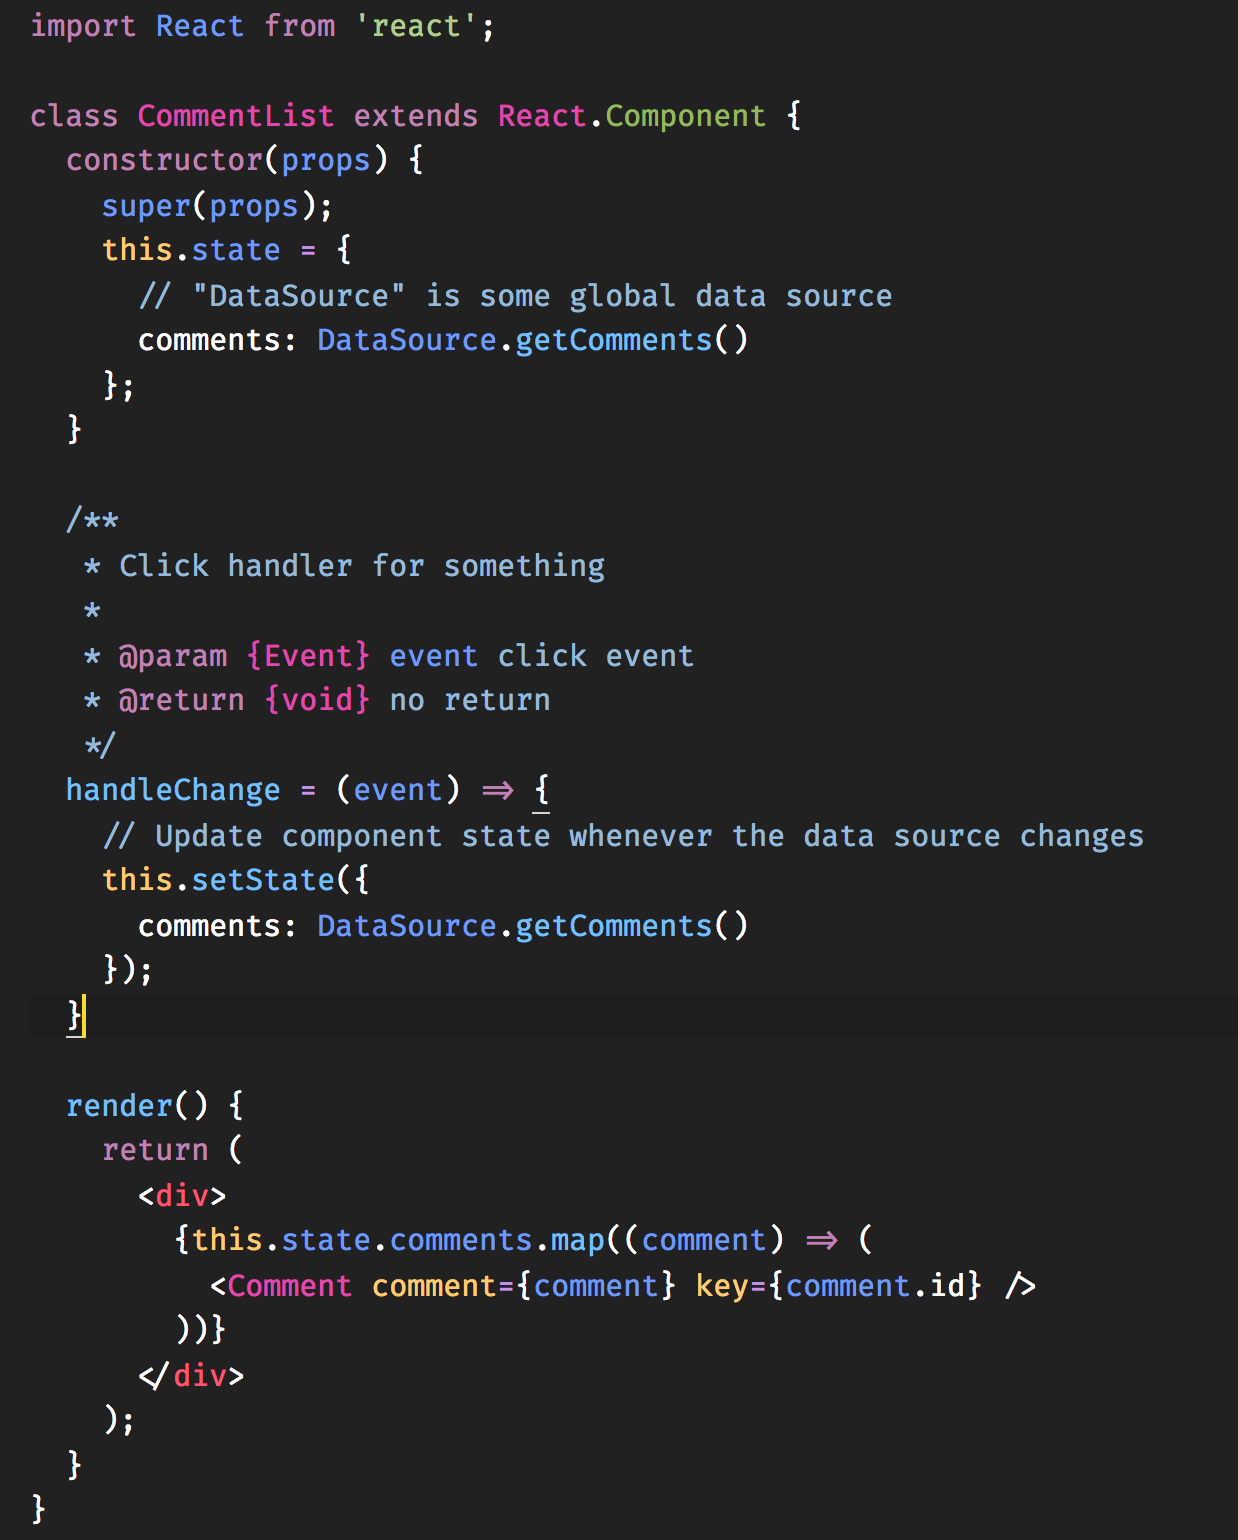
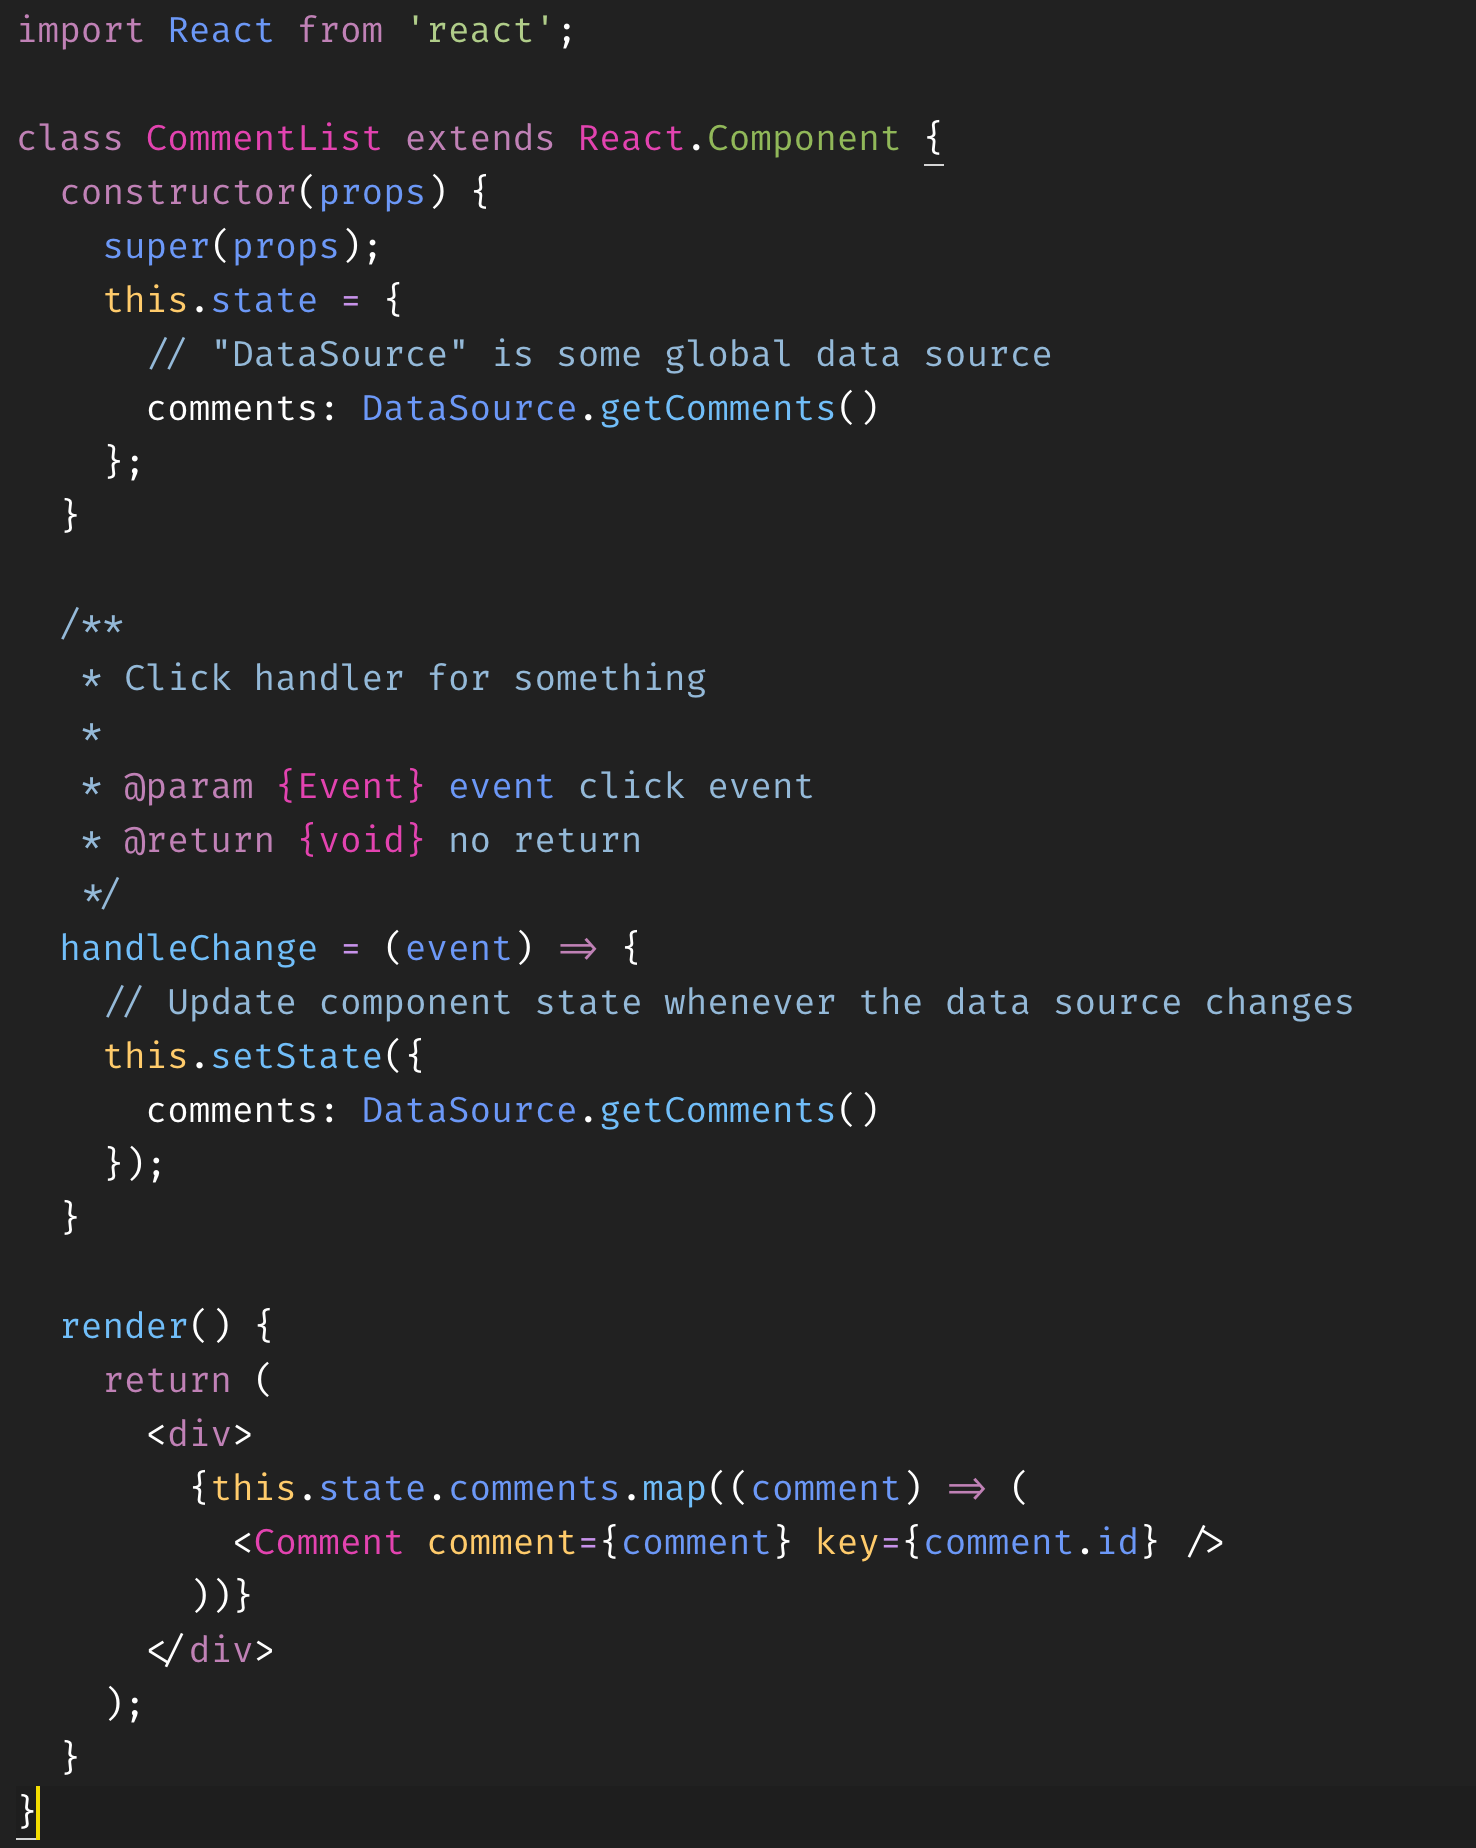
Update demo.png to accurately reflect current state

diff --git a/CHANGELOG.md b/CHANGELOG.md
@@ -4,6 +4,10 @@ All notable changes to the "material-minimal-dark" extension will be documented 
 
 Check [Keep a Changelog](http://keepachangelog.com/) for recommendations on how to structure this file.
 
+## [0.0.8]
+
+- Update demo.png to accurately reflect current state.
+
 ## [0.0.7]
 
 - Fix illegibility of currently selected find result.
